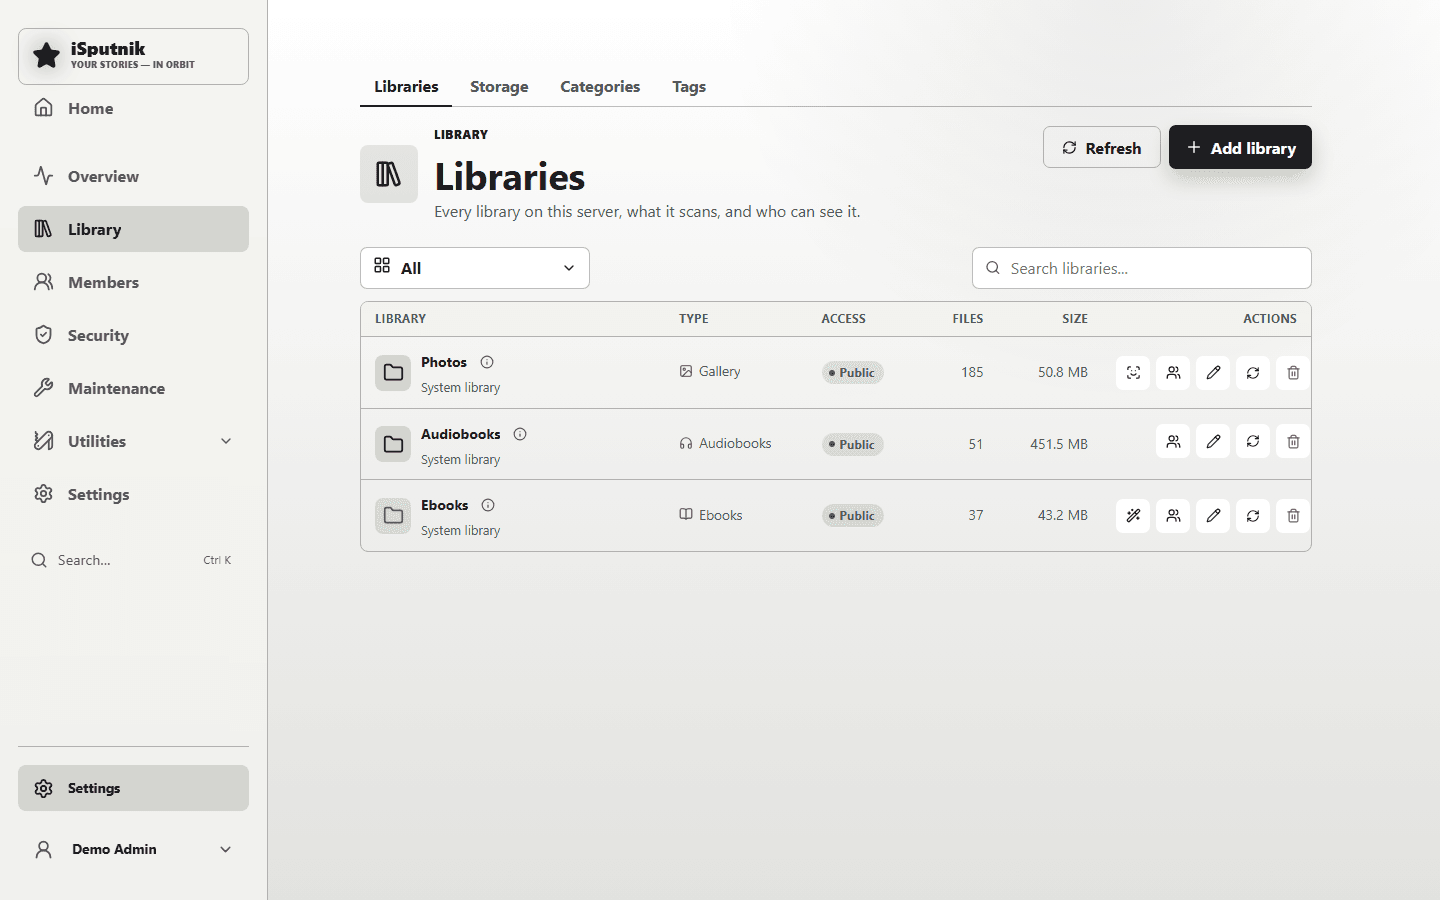
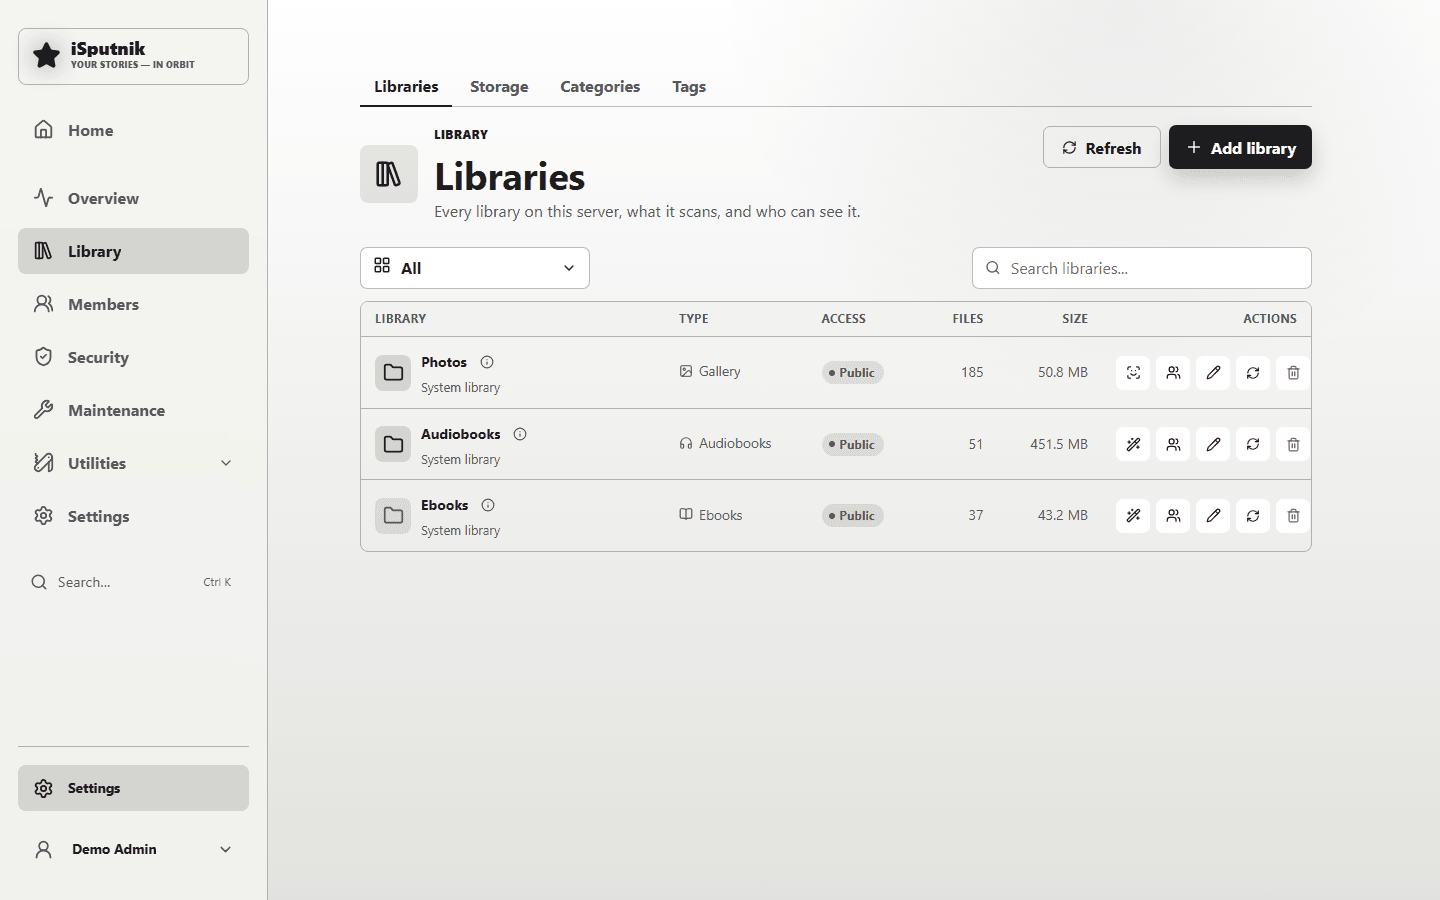
docs(guides): illustrate seven more guides
Eleven new screenshots, taking the set from 15 to 26 and the guides that
carry one from 9 to 16. Only family-sharing, quotes and stories are left
without pictures; each needs content the demo library does not have yet.

  gallery      People and Map — the two views that mean nothing until a face
               scan has run and photos carry GPS
  control      the Dashboard and the Backup page
  duplicates   a cleanup sitting in review, with what it found and what it
               would reclaim
  account      the Profile tabs: Account, Security, Appearance, Devices
  security     the Security overview, which scores the server differently
               depending on whether it is reachable from the internet
  2fa          the two-factor panel before it is set up

Two things deliberately NOT captured:

  * the two-factor enrolment step, which puts a live TOTP secret and its QR
    code on screen. 74-two-factor stops at the panel before it.
  * the Recycle Bin. Its shot is defined but marked state-dependent: the bin
    shows whatever was last deleted, and the first attempt caught copyrighted
    material somebody had been testing with. Empty it, delete one demo item,
    then capture.

21-libraries-list is recaptured: a second gallery library had been added to
the demo server since, so the old shot no longer matched the install.

74-two-factor needed the capture script to find the scrolling ancestor rather
[…]

diff --git a/docs/users/library-gallery.md b/docs/users/library-gallery.md
@@ -108,6 +108,11 @@ have internet access — the same place the map's tiles come from. Plus Codes ar
 worked out on the server itself, though a short one still needs that lookup for
 the place beside it. Without any internet, dropping the pin by hand still works.
 
+Anything with a location joins the **Map** view, where nearby photos gather into
+one numbered cluster until you zoom in far enough to separate them:
+
+![The Map view, photos gathered into numbered clusters over a world map](images/34-gallery-map.png)
+
 ## Uploading
 
 If the library allows uploads, the upload button takes files straight in. They
@@ -118,6 +123,8 @@ uploads blend into a folder structure rather than piling up at the top.
 
 **Off by default, and entirely local** — the models ship with the app, nothing is
 sent anywhere. An admin turns it on per library in the library's settings.
+
+![The People page: named groups first, then unnamed ones, with the single-photo groups collapsed](images/33-gallery-people.png)
 
 Once enabled, a background job finds faces and groups them into people. You then
 name the ones you care about; naming is what makes a group stick. The **People**

diff --git a/docs/users/your-account.md b/docs/users/your-account.md
@@ -14,6 +14,8 @@ which is your account settings, and the list of things you've saved.
 bookmark the one you use and the back button returns you to it rather than
 leaving the page.
 
+![The Profile page on its Account tab](images/70-profile.png)
+
 ### Account
 
 | | |
@@ -26,6 +28,8 @@ it afterwards — the old one included, because if the change wasn't you, the ol
 inbox is the only place that news can still reach you.
 
 ### Security
+
+![The Security tab: password, two-factor authentication and passkeys](images/71-profile-security.png)
 
 - **Change password** — needs the current one.
 - **Two-factor authentication** — a one-time code after your password, from an
@@ -59,6 +63,8 @@ administrator cannot list yours from here either.
 
 Six choices, saved to your account, applied the moment you pick one — so the same
 theme follows you to your phone.
+
+![The Appearance tab, with the six themes as previews](images/72-profile-appearance.png)
 
 | | |
 |---|---|

diff --git a/docs/users/control-panel.md b/docs/users/control-panel.md
@@ -40,6 +40,8 @@ where a setting lives.
 Server health and activity trends in one page, switched with the row of pill-shaped
 tabs under the heading — real tabs, not a dropdown:
 
+![The Dashboard on its Sign-ins view, with the tab row above it](images/60-dashboard.png)
+
 - **System** — is the server well? Four cards: uptime with the version and Node
   release under it, memory in use, free space on the data disk (green until a
   fifth is left, amber below that, red below a tenth), and the database on disk
@@ -297,6 +299,8 @@ The alerts these produce only reach you if email is set up.
 ### Backup
 
 Worth setting up on the day you install, not the day you need it.
+
+![The Backup page, with the schedule above the list of existing backups](images/63-backup.png)
 
 - **Create backup now** makes one immediately.
 - **Scheduled backups** run daily at a time you pick, keeping the last N (default

diff --git a/docs/users/exposing-to-the-internet.md b/docs/users/exposing-to-the-internet.md
@@ -71,6 +71,13 @@ when you know the proxy's address; if both are set, `TRUST_PROXY` wins.
 
 ## 3. Strongly recommended
 
+**Control panel → Security → Overview** scores how the server is currently
+protected, and the toggle switches the scoring between a home network and one
+reachable from the internet — the same settings are judged far more harshly on
+the second:
+
+![The Security overview, scoring each protection for a server reachable from the internet](images/64-security-overview.png)
+
 - **Turn on two-factor authentication** for admin accounts, and encourage everyone
   to use it — see [Two-factor authentication](two-factor-authentication.md).
 - **Require a second factor from outside** (Control panel → **Security** →

diff --git a/docs/users/passkeys.md b/docs/users/passkeys.md
@@ -66,6 +66,8 @@ or two-factor setup.
 If the Passkeys panel says they aren't available, it's the server's address, not
 your device.
 
+![The Passkeys panel explaining that the server's address does not allow them](images/71-profile-security.png)
+
 Browsers only allow passkeys on sites reached over **HTTPS at a domain name** — like
 `https://library.example.com`. A library reached by IP address on the home network,
 like `http://192.168.1.50:4000`, can't use them at all, and no browser setting

diff --git a/docs/users/link-a-device.md b/docs/users/link-a-device.md
@@ -89,6 +89,8 @@ with two deliberate exceptions:
 **Profile → Devices** lists every linked screen, when it was last used, and what
 network it was on.
 
+![The Devices tab, with linked devices above the ordinary sign-ins](images/73-profile-devices.png)
+
 - **Rename** gives it a name you'll recognise — "Living Room TV" beats
   "Chrome on Linux".
 - **Revoke device** signs it out immediately. It'll need authorizing again to come

diff --git a/docs/users/two-factor-authentication.md b/docs/users/two-factor-authentication.md
@@ -43,6 +43,8 @@ your backup codes are the way in.
 
 ## Turning it on
 
+![The Two-factor authentication panel on the Security tab, before it is set up](images/74-two-factor.png)
+
 1. Open **Profile** (your name → Profile) and pick the **Security** tab — see
    [Your account](your-account.md) for what else lives there.
 2. Find **Two-factor authentication** and select **Set up two-factor**.

diff --git a/docs/users/duplicate-cleanup.md b/docs/users/duplicate-cleanup.md
@@ -17,6 +17,8 @@ made.
 > through the whole list at once. Everything removed goes to the Recycle Bin and can be
 > restored until you empty it.
 
+![A cleanup ready to review: what it found, how much it would reclaim, and the list below](images/61-duplicate-cleanup.png)
+
 ## One cleanup at a time
 
 Only one cleanup can be in progress. It belongs to whoever started it: they choose what to
